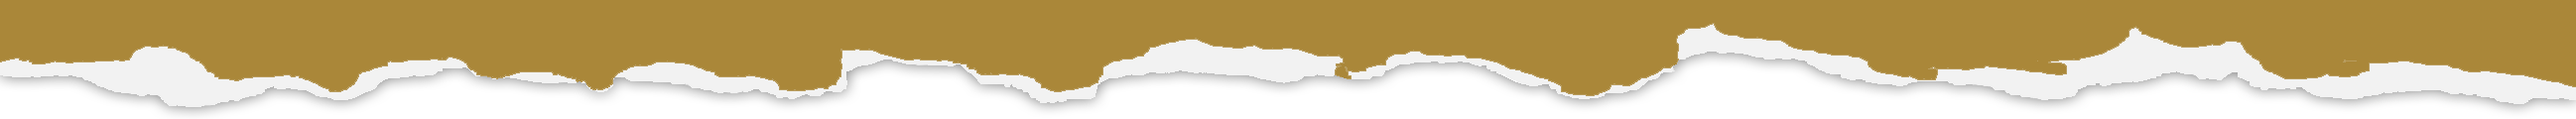
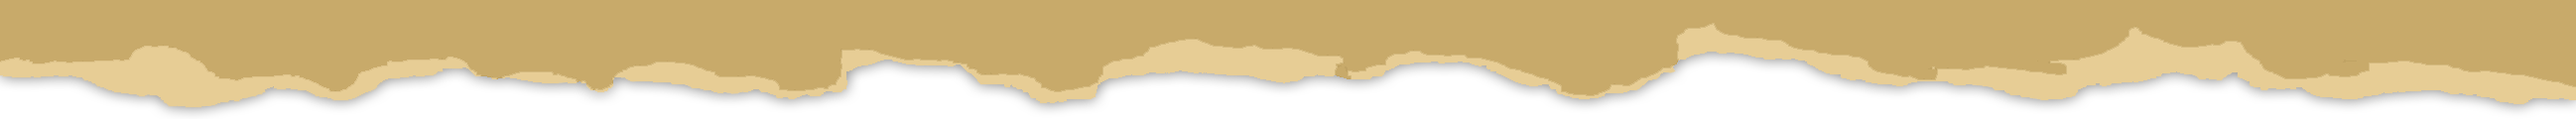
css updates in about, header, transitions, heros

diff --git a/app/about/page.tsx b/app/about/page.tsx
@@ -3,6 +3,7 @@ import Image from "next/image";
 import Workplace from "./../../components/Workplace/Workplace";
 import Education from "./../../components/Education/Education";
 import transition from "./../../public/images/transition1.png";
+import redTransition from "./../../public/images/transition-r.png";
 import aftereffects from "./../../public/images/icons/aftereffects.png";
 import canva from "./../../public/images/icons/canva.png";
 import corel from "./../../public/images/icons/corel.png";
@@ -43,48 +44,43 @@ export default function About() {
   return (
     <main className={styles.about}>
       <AboutHero />
-      {/* <Image
-        className={styles.about__transition}
-        src={transition}
-        alt="transition image"
-      /> */}
-      {/* <section className={styles.about__positive}>
-        <section className={styles.about__title_wrap}>
-          <h1 className={`${styles.about__topTitle} ${indie.className}`}>
-            About, Skills & Experience
-          </h1>
+      <section className={`${styles.about__sectionWrapper}`}>
+        <section className={`${styles.about__paragraphTopWrapper}`}>
+          <p
+            className={`${styles.about__paragraphTop} ${styles.about__firstPtop}`}
+          >
+            Drawing inspiration from a cross-cultural existence in Canada and
+            Brazil, I bring a unique worldview to my endeavors. Grateful for the
+            enriching experiences of studying, working, and living in both
+            countries, I am excited about the unfolding future of Production and
+            Design. Continuously I work hard to envision a harmonious
+            convergence of technology and art and to shape a brighter world for
+            all of us.
+          </p>
+          <p
+            className={`${styles.about__paragraphTop} ${styles.about__firstPtop}`}
+          >
+            Meeting with prospects, art directors, graphic designers,
+            illustrators, and business owners to determine the project&apos;s
+            scope and how and when it would be delivered is crucial for the
+            quality of the outcome material. I find these interactions to be
+            incredibly valuable as they help me understand the client&apos;s
+            needs and ensure a successful project.
+          </p>
         </section>
-      </section> */}
-      <section className={`${styles.about__paragraphTopWrapper}`}>
-        <p className={`${styles.about__paragraphTop} ${styles.about__firstP}`}>
-          Drawing inspiration from a cross-cultural existence in Canada and
-          Brazil, I bring a unique worldview to my endeavors. Grateful for the
-          enriching experiences of studying, working, and living in both
-          countries, I am excited about the unfolding future of Production and
-          Design. Continuously I work hard to envision a harmonious convergence
-          of technology and art and to shape a brighter world for all of us.
-        </p>
-        <p className={`${styles.about__paragraphTop} ${styles.about__firstP}`}>
-          Meeting with prospects, art directors, graphic designers,
-          illustrators, and business owners to determine the project&apos;s
-          scope and how and when it would be delivered is crucial for the
-          quality of the outcome material. I find these interactions to be
-          incredibly valuable as they help me understand the client&apos;s needs
-          and ensure a successful project.
-        </p>
       </section>
       <Image
         className={styles.about__transition}
-        src={transition}
+        src={redTransition}
         alt="transition image"
       />
-      <section className={styles.about__title_wrap}>
+      {/* <section className={styles.about__title_wrap}>
         <h1
           className={`${styles.about__pencil} ${indie.className} ${styles.about__tilt}`}
         >
           Tools
         </h1>
-      </section>
+      </section> */}
       <section className={styles.about__info}>
         <section className={styles.about__tools_wrapper}>
           <section className={styles.about__tools_wrap}>
@@ -108,6 +104,9 @@ export default function About() {
           </section>
 
           <section className={styles.about__skill}>
+            {/* <section className={styles.about__title_wrap}> */}
+            <h1 className={`${styles.about__pencil} ${indie.className}`}></h1>
+            {/* </section> */}
             <ul className={styles.about__skill_list}>
               <li key={"01"} className={styles.about__skill_list_item}>
                 <Image

diff --git a/app/about/about.module.scss b/app/about/about.module.scss
@@ -2,53 +2,21 @@
 @import "./../mixins";
 
 .about {
-  @include flex-column-start-center;
+  @include flex-column-center-center;
   width: 100%;
   overflow: hidden;
+
   &__transition {
     width: 300%;
     height: auto;
     margin-bottom: 50px;
   }
-  &__positive {
-    z-index: 100;
-    background-image: url("./../../public/images/positive.png");
-    background-position: 0 0px;
-    background-repeat: no-repeat;
-    background-size: contain;
-    filter: drop-shadow(0px 0px 5px $gray);
-    margin-bottom: 40px;
-  }
-  &__title_wrap {
-    @include flex-column-start-center;
-    width: 350px;
-    margin: 30px 0px 60px 0px;
-  }
-  &__topTitle {
+  &__sectionWrapper {
     @include flex-column-center-center;
-    width: 350px;
-    height: 80px;
-    font-size: 1.65rem;
-    background-image: url("./../../public/images/tape.png");
-    background-position: center;
-    background-repeat: no-repeat;
-    background-size: 100% 100%;
-    color: $darkgray;
-    filter: drop-shadow(0px 0px 2px $gray);
-    transform: rotate(-4deg);
-  }
-
-  &__title {
-    @include flex-column-center-center;
-    width: 350px;
-    height: 80px;
-    font-size: 1.65rem;
-    background-image: url("./../../public/images/tape.png");
-    background-position: center;
-    background-repeat: no-repeat;
-    background-size: 100% 100%;
-    color: $darkgray;
-    filter: drop-shadow(0px 0px 2px $gray);
+    background-color: $lightred;
+    padding-top: 80px;
+    width: 100%;
+    height: 100%;
   }
   &__title_b1 {
     @include flex-column-center-center;
@@ -95,9 +63,9 @@
   }
   &__pencil {
     @include flex-column-center-center;
-    padding-top: 22px;
-    width: 350px;
-    height: 70px;
+    margin: 40px 0px 40px 0px;
+    width: 300px;
+    height: 50px;
     font-size: 2.5rem;
     background-image: url("./../../public/images/pencil.png");
     background-position: center;
@@ -110,7 +78,6 @@
   &__info {
     @include flex-column-start-center;
     width: 100%;
-
     background-position: center;
     background-repeat: no-repeat;
     background-size: 300% 100%;
@@ -146,12 +113,12 @@
   &__tools_wrap {
     width: 350px;
     @include flex-column-center-center;
-    margin-bottom: 48px;
   }
 
   &__paragraphTopWrapper {
     width: 350px;
     @include flex-column-start-center;
+    margin-bottom: 60px;
   }
   &__paragraphTop {
     width: 350px;
@@ -161,7 +128,19 @@
     margin: 0px 0px 40px 0;
     font-weight: 200;
     filter: drop-shadow(0px 0px 2px $gray);
-    color: $darkgray;
+    color: $lightwhite;
+  }
+  &__firstPtop {
+    &:first-letter {
+      color: $lightwhite;
+      float: left;
+      font-family: Georgia;
+      font-size: 5rem;
+      line-height: 60px;
+      padding-top: 12px;
+      padding-right: 8px;
+      padding-left: 3px;
+    }
   }
   &__firstP {
     &:first-letter {
@@ -199,12 +178,13 @@
     @include flex-column-start-center;
     width: 100%;
     margin-bottom: 50px;
-    // padding: 16px;
   }
 
   &__skill_list {
     @include flex-row-center-center-wrap;
     list-style-type: none;
+    padding: 0px;
+    margin: 0px;
   }
 
   &__skill_list_item {
@@ -215,15 +195,6 @@
     filter: drop-shadow(0px 10px 8px $gray);
     width: 56px;
     height: auto;
-  }
-
-  &__skill_color {
-    margin: 0px 0px 0px 10px;
-    color: $red;
-    font-size: 1.4rem;
-  }
-  &__ballon_1 {
-    background-image: url(./../../public/images/ballon-1.png);
   }
 }
 

diff --git a/components/MainHeader/MainHeader.module.scss b/components/MainHeader/MainHeader.module.scss
@@ -7,19 +7,24 @@
   @include flex-row-center-center;
   width: 100%;
   height: 100px;
-  &__name {
-    @include flex-row-center-center;
+  &__homeLink {
     text-decoration: none;
-    padding: 14px 40px;
-    background-image: url("./../../public/images/tape.png");
-    background-position: center;
-    background-repeat: no-repeat;
-    background-size: contain;
-    color: $black;
+  }
+  &__nameLogoWrap {
+    @include flex-column-center-center;
     filter: drop-shadow(0px 0px 2px $gray);
+    margin: 30px 0px 0px 0px;
   }
   &__nameSize {
-    font-size: 1.65rem;
+    font-size: 2rem;
+    margin: 0px;
+    line-height: 28px;
+    color: $darkgray;
+  }
+  &__bottomName {
+    font-size: 1.275rem;
+    margin: 0px;
+    color: $darkred;
   }
   &__listBlock {
     display: none;
@@ -64,12 +69,8 @@
     &__iconBurger {
       display: none;
     }
-    &__name {
-      text-decoration: none;
-      padding: 14px 40px;
-      font-size: 1.65rem;
-      color: $black;
-      filter: drop-shadow(0px 0px 2px $gray);
+    &__nameLogoWrap {
+      margin: 30px 60px 0px 0px;
     }
     &__list {
       font-size: 1.2rem;

diff --git a/components/MainHeader/MainHeader.js b/components/MainHeader/MainHeader.js
@@ -14,12 +14,13 @@ export default function MainHeader() {
     <>
       <header className={styles.header}>
         <HamburgerIcon />
-        <Link
-          className={`${styles.header__name} ${indie.className}`}
-          href={"/"}
-          title="Home"
-        >
-          <h1 className={styles.header__nameSize}>This is my Website</h1>
+        <Link className={`${styles.header__homeLink}`} href={"/"} title="Home">
+          <div className={`${styles.header__nameLogoWrap} ${indie.className}`}>
+            <h1 className={styles.header__nameSize}>Hello, I am Fred</h1>
+            <h2 className={styles.header__bottomName}>
+              and This is my Website
+            </h2>
+          </div>
         </Link>
         <ul className={styles.header__listBlock}>
           <li className={styles.header__list} key={"01"}>

diff --git a/components/Hero/AboutHero.js b/components/Hero/AboutHero.js
@@ -1,6 +1,7 @@
 import Image from "next/image";
 import styles from "./../Hero/AboutHero.module.scss";
 import toprip from "./../../public/images/transition1.png";
+import redrip from "./../../public/images/transition-r.png";
 
 export default function AboutHero() {
   return (
@@ -18,7 +19,7 @@ export default function AboutHero() {
       >
         <source src="/videos/front-hero-2.mp4" type="video/mp4" />
       </video>
-      <Image className={styles.aboutHero__bottomrip} src={toprip} alt="hero" />
+      <Image className={styles.aboutHero__bottomrip} src={redrip} alt="hero" />
     </section>
   );
 }

diff --git a/components/Education/Education.module.scss b/components/Education/Education.module.scss
@@ -4,7 +4,7 @@
 .education {
   @include flex-column-start-center;
   width: 100%;
-  background-color: $lightblue;
+  // background-color: $lightblue;
   // background-image: url("./../../public/images/education_bg.jpg");
   background-repeat: no-repeat;
   background-position: center;
@@ -43,7 +43,7 @@
   }
 
   &__frame {
-    background-color: #ddc;
+    background-color: $lightgray;
     border: solid 5vmin #eee;
     border-bottom-color: #fff;
     border-left-color: #eee;

diff --git a/app/_variables.scss b/app/_variables.scss
@@ -18,9 +18,12 @@ $lightgreen: #89926a;
 $green: #4a762e;
 $darkgreen: #0f4e17;
 $brightyellow: #ffd72a;
-$lightyellow: #d1ad60;
+$lightyellow: #c8aa6a;
 $yellow: #aa8739;
 $darkyellow: #74540f;
+$brightorange: #faba65;
+$orange: #ff9100;
+$darkorange: #bb761a;
 $lightred: #c45353;
 $red: #af3131;
 $darkred: #710f0f;

diff --git a/components/Workplace/Workplace.module.scss b/components/Workplace/Workplace.module.scss
@@ -9,7 +9,7 @@
   background-repeat: no-repeat;
   background-position: 0 0;
   background-size: 300vw;
-  background-color: $yellow;
+  background-color: $lightyellow;
   &__title {
     width: 350px;
     font-size: 3.5rem;

diff --git a/components/Hero/AboutHero.module.scss b/components/Hero/AboutHero.module.scss
@@ -11,7 +11,7 @@
   width: 100%;
   height: 74vh;
   overflow: hidden;
-  margin-bottom: 80px;
+  // margin-bottom: 80px;
   &__toprip {
     z-index: 10;
     width: 300vw;
